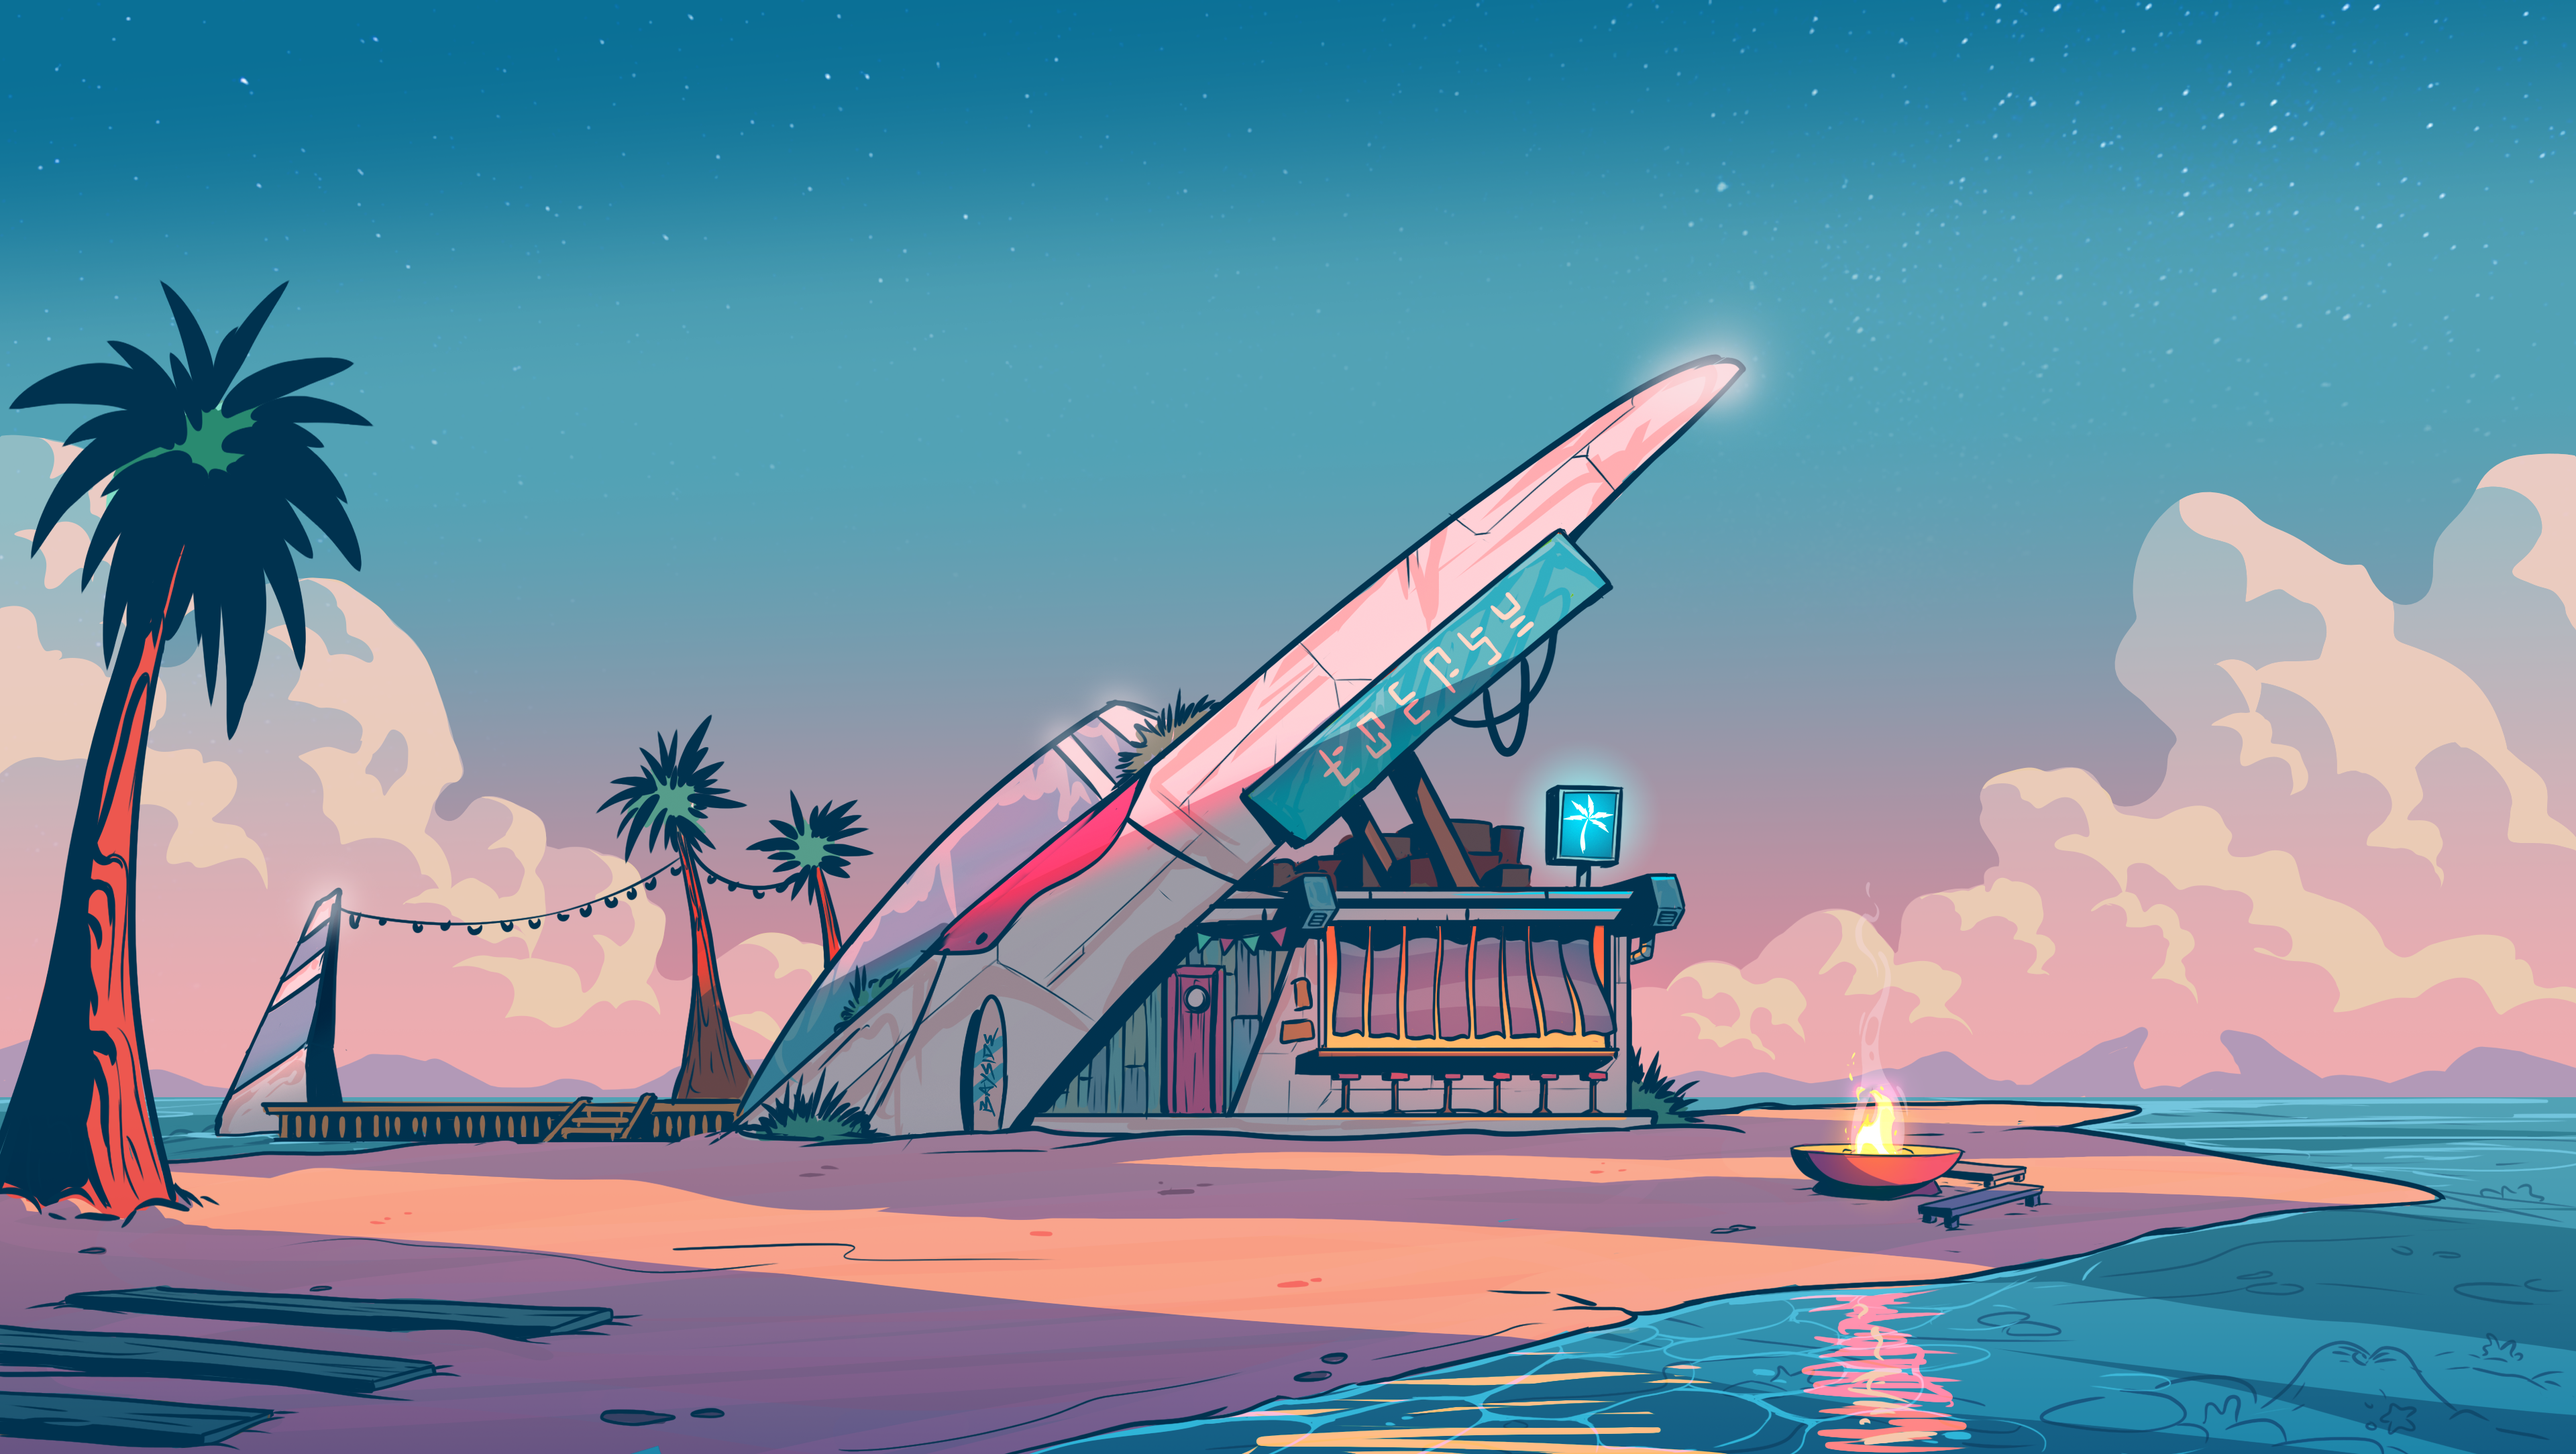
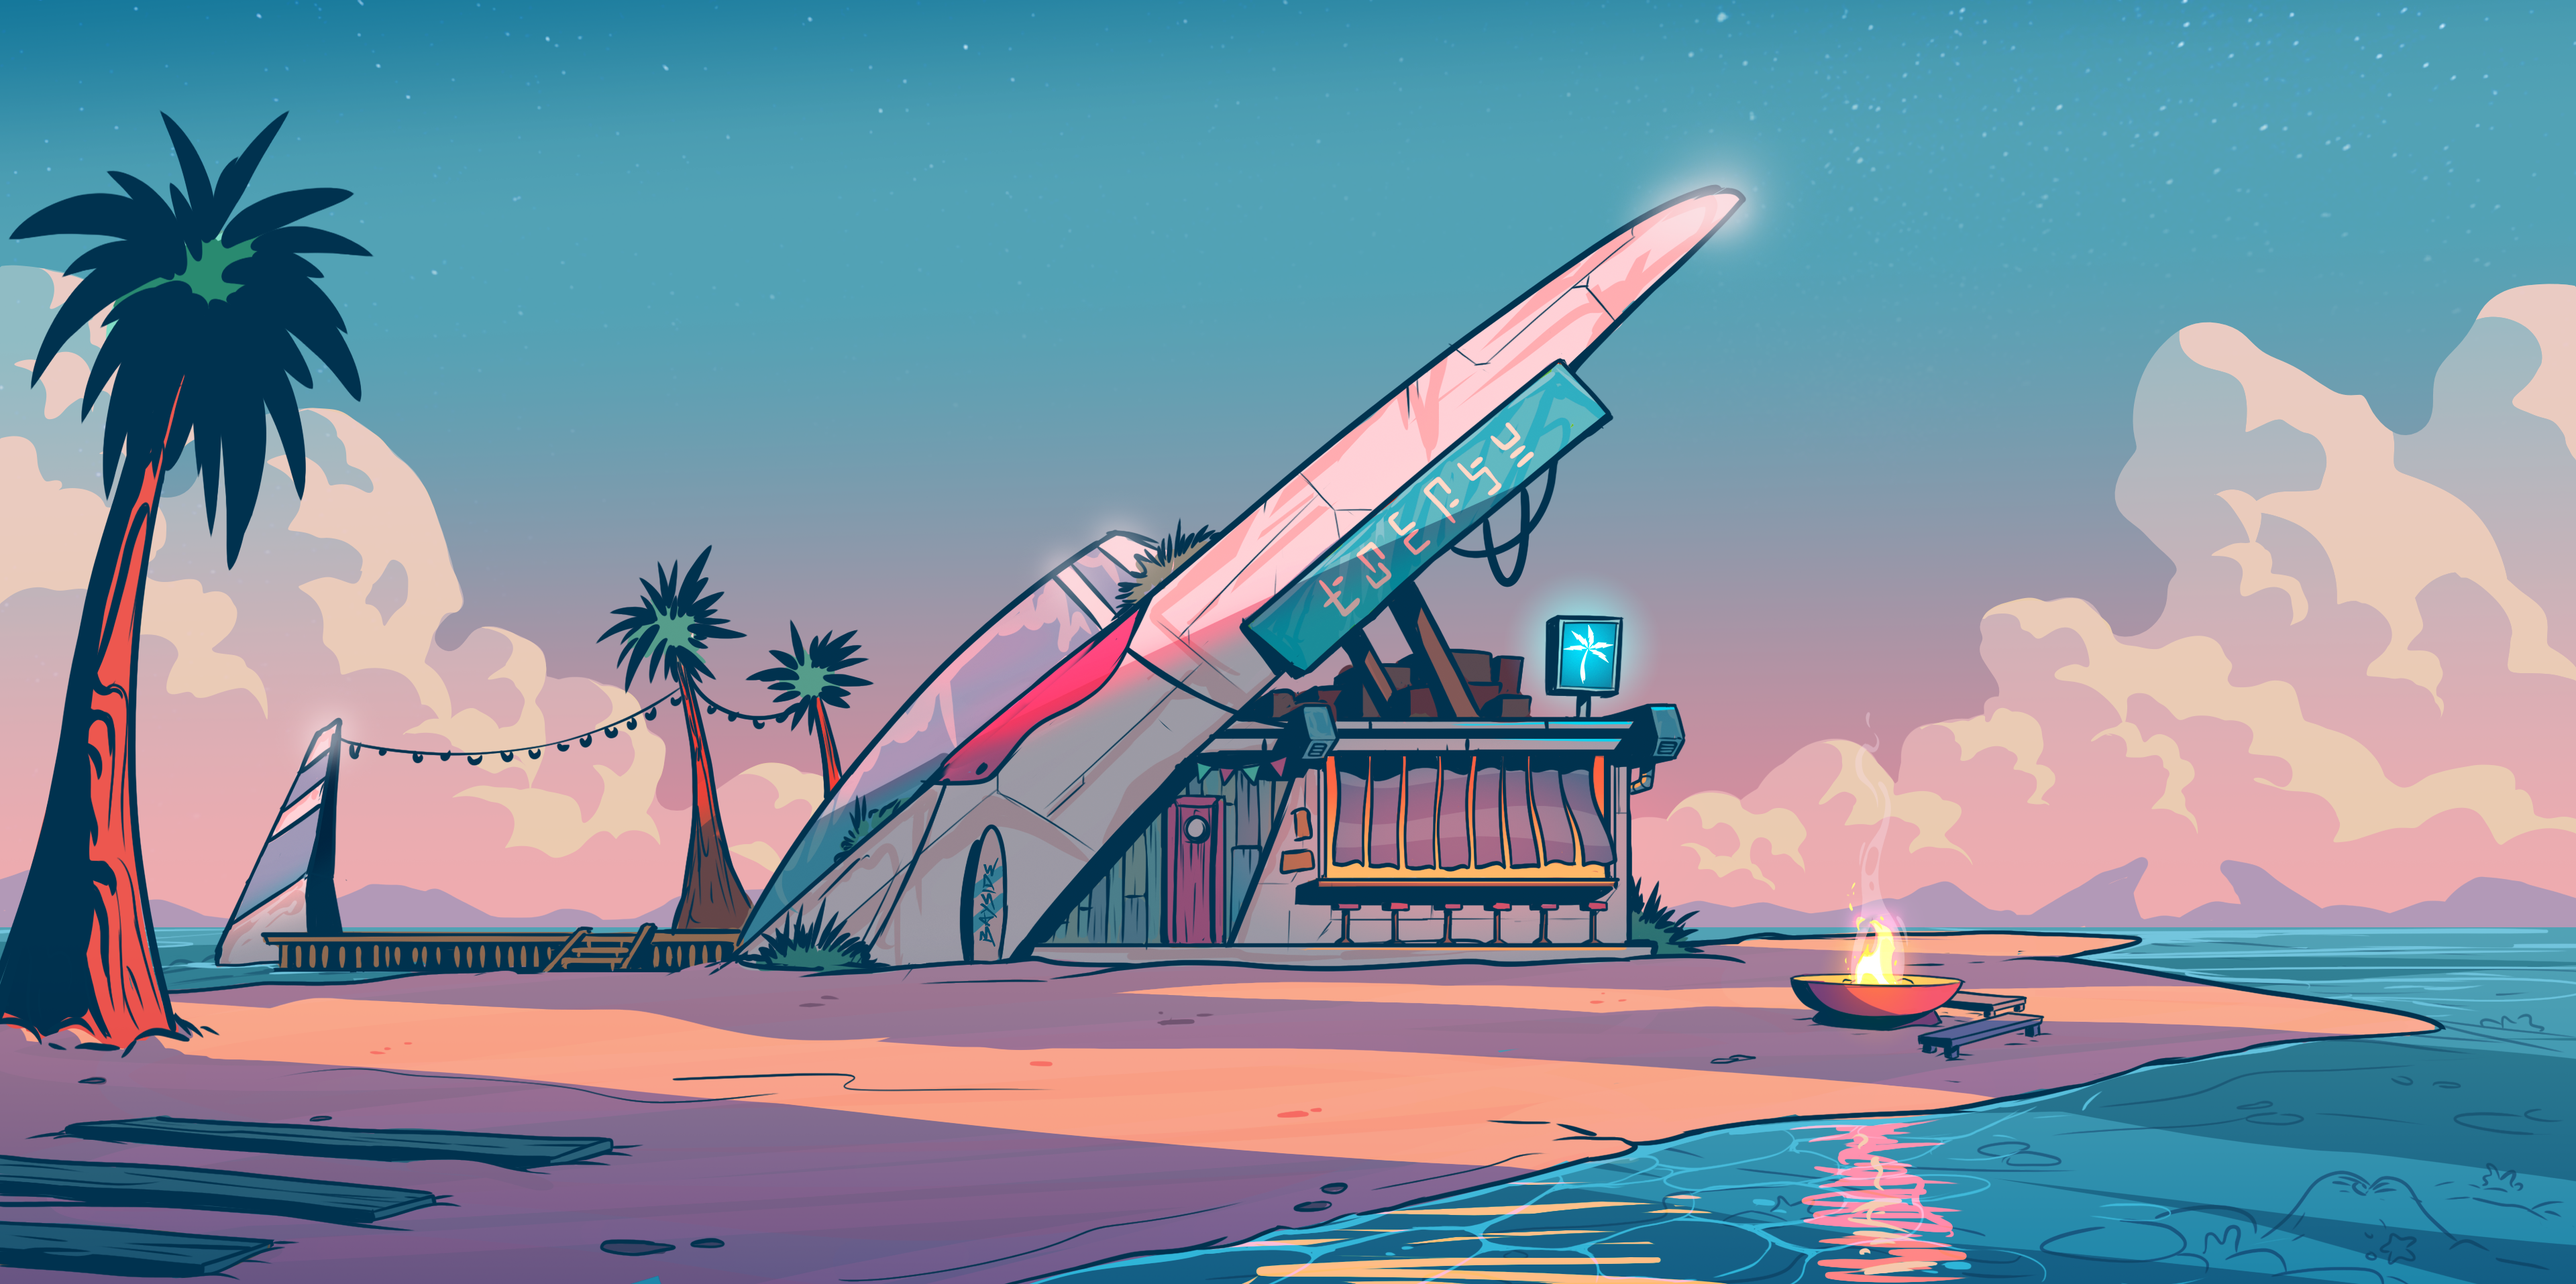
Updated based on feedback

diff --git a/index.html b/index.html
@@ -8,21 +8,19 @@
     </head>
     <body style="margin:0">
         <div class="container">
-            <div class="mobile-nav">
+            <div class="mobile-content">
+                <img class="mobile-background" id="mobileBackground" src="./assets/images/bayside_ship_bar_desktop.png" />
                 <div class="mobile-palm-tree-icon-container">
                     <img class="palm-tree-logo" src="./assets/icons/palmtree-black.png">
                 </div>
-                <div class="mobile-twitter-icon-container">
-                    <a href="https://twitter.com/bayside_xyz">
-                        <img class="mobile-nav-bar-twitter-logo" src="./assets/icons/twitter-black.png">
-                    </a>
-                </div>
-            </div>
-            <div class="mobile-content">
-                <img class="mobile-background" id="mobileBackground" src="./assets/images/bayside_ship_bar_desktop.png" />
                 <div class="bucket-list-button-container-mobile">
                     <a href="https://www.premint.xyz/bayside/" class="bayside-button">
-                        <p class="bayside-button-text">JOIN THE BUCKETLIST</p>
+                        <p class="bayside-button-text">BUCKETLIST</p>
+                    </a>
+                </div>
+                <div>
+                    <a href="https://twitter.com/bayside_xyz" id="whiteTwitterLogoMobile" class="bayside-white-twitter-logo">
+                        <img class="nav-bar-social-link-icon" src="./assets/icons/twitter-white.png">
                     </a>
                 </div>
             </div>
@@ -37,7 +35,7 @@
                     <img class="bayside-white-logo" src="./assets/images/logo_white.png">
                 </div>
                 <div>
-                    <a href="https://twitter.com/bayside_xyz" id="whiteTwitterLogo" class="bayside-white-twitter-logo">
+                    <a href="https://twitter.com/bayside_xyz" id="whiteTwitterLogoDesktop" class="bayside-white-twitter-logo">
                         <img class="nav-bar-social-link-icon" src="./assets/icons/twitter-white.png">
                     </a>
                 </div>

diff --git a/script/script.js b/script/script.js
@@ -2,11 +2,14 @@ window.addEventListener("resize", resizeListener);
 function fillImage(width, height) {
     var mobile_background = document.getElementById("mobileBackground");
     var desktop_background = document.getElementById("desktopBackground");
-    var twitter_logo = document.getElementById("whiteTwitterLogo");
-    twitter_logo.style.top = `${0.87*height}px`//"550px"
-    twitter_logo.style.bottom = null
+    var twitter_logo_mobile = document.getElementById("whiteTwitterLogoMobile");
+    var twitter_logo_desktop = document.getElementById("whiteTwitterLogoDesktop");
+    twitter_logo_mobile.style.top = `${0.87*height}px`//"550px"
+    twitter_logo_mobile.style.bottom = null
+    twitter_logo_desktop.style.top = `${0.87*height}px`//"550px"
+    twitter_logo_desktop.style.bottom = null
 
-    const WIDTH_TO_HEIGHT_RATIO = 1.7712
+    const WIDTH_TO_HEIGHT_RATIO = 2.0052 // 1.7712 for original
 
     currentRatio = width/height
     if (currentRatio > WIDTH_TO_HEIGHT_RATIO) {
@@ -16,8 +19,10 @@ function fillImage(width, height) {
     } else {
         desktop_background.style.width = null
         desktop_background.style.height = "100%"
-        twitter_logo.style.top = null
-        twitter_logo.style.bottom = "6%"
+        twitter_logo_mobile.style.top = null
+        twitter_logo_mobile.style.bottom = "6%"
+        twitter_logo_desktop.style.top = null
+        twitter_logo_desktop.style.bottom = "6%"
     }
 
     if (currentRatio > WIDTH_TO_HEIGHT_RATIO) {

diff --git a/style/style.css b/style/style.css
@@ -20,9 +20,10 @@ html, body {
     justify-content: space-between;
 }
 .mobile-palm-tree-icon-container {
+    position: absolute;
     width: 45px;
-    padding-top: 10px;
-    padding-left: 10px;
+    top: 2%;
+    left: 2%;
 }
 .palm-tree-logo, .mobile-nav-bar-twitter-logo{
     width: 100%;
@@ -43,9 +44,8 @@ html, body {
 /* bayside button */
 .bucket-list-button-container-mobile {
     position: absolute;
-    top: 13%;
-    left: 50%;
-    margin-left: -154px;
+    top: 2%;
+    right: 2%;
 }
 
 .bayside-button {
